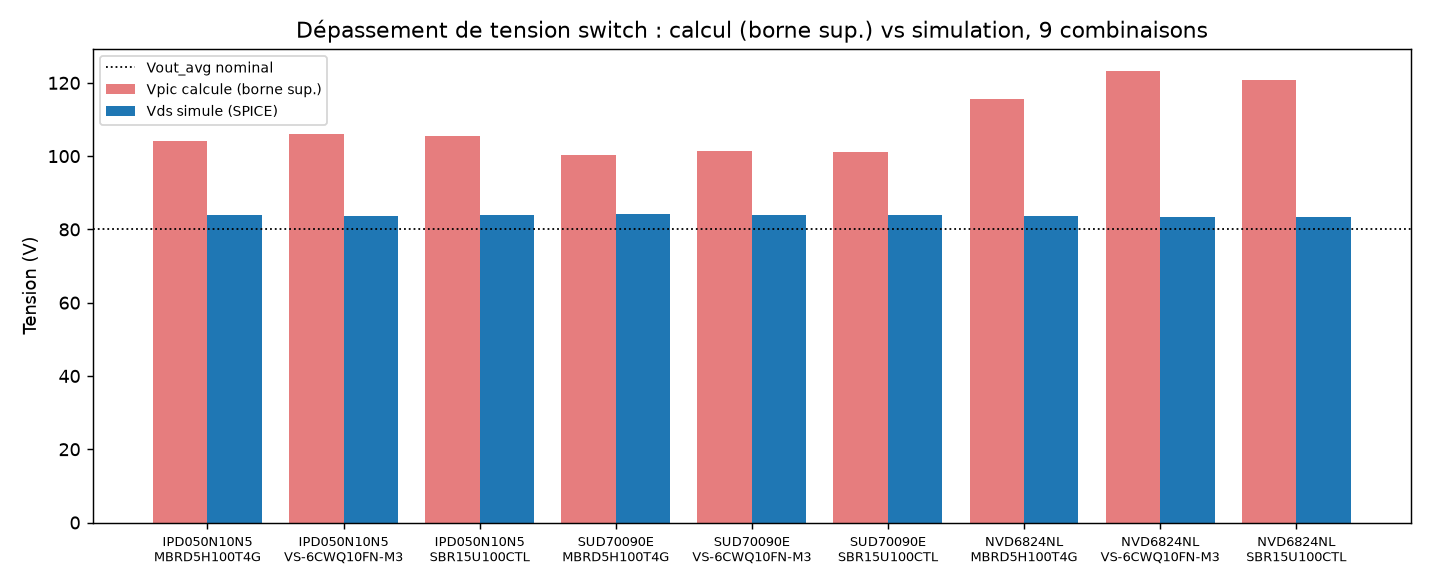
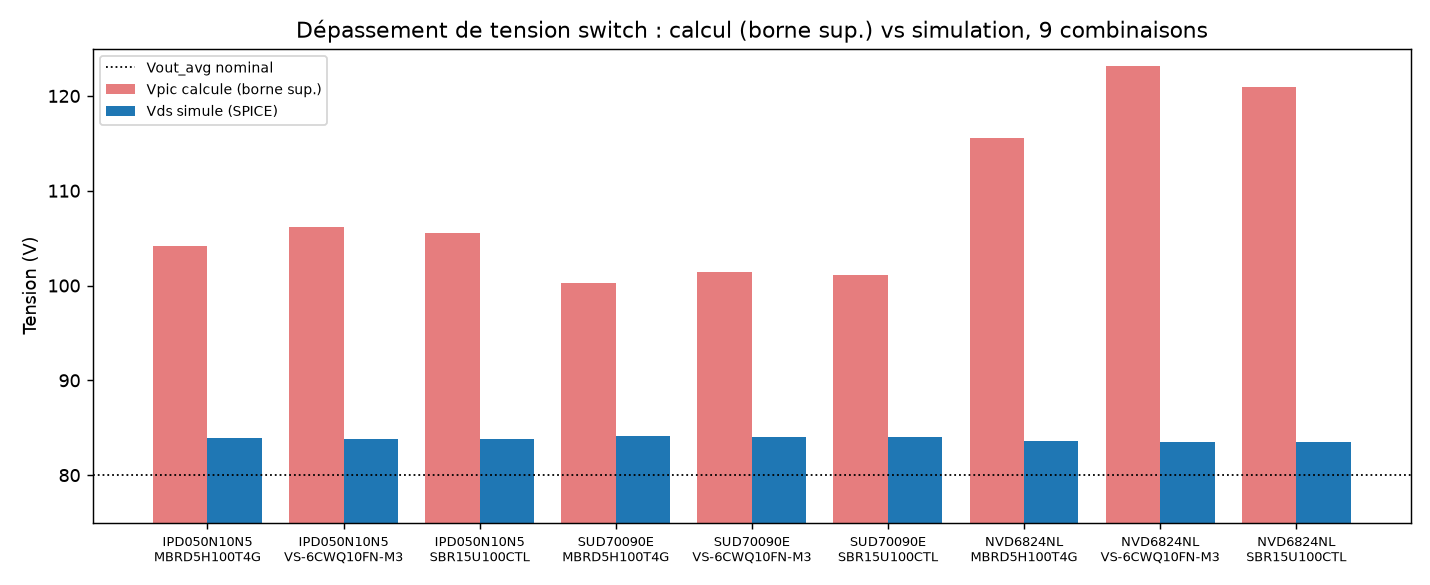
EMI : pertes switch en courbes (cond/sw/total) au lieu d'empilement, resserre l'axe de surtension a 75-125V

diff --git a/02-mosfet-diode/make_plots_emi.py b/02-mosfet-diode/make_plots_emi.py
@@ -16,26 +16,32 @@ SWITCH_COLOR = {"IPD050N10N5": "C0", "SUD70090E": "C1", "NVD6824NL": "C2"}
 
 
 def make_switch_losses_figure(out="plots/emi_switch_losses.png"):
+    """Un sous-graphe par transistor -- 3 courbes (P_cond/P_sw/P_total)
+    en fonction de fsw, pas un empilement -- pour voir directement
+    lequel des deux termes domine et comment la somme evolue."""
     points = load_nominal_points()
     fsw_list = [p["fsw_khz"] for p in points]
-    fig, axes = plt.subplots(1, 3, figsize=(12, 4), sharey=True)
+    fig, axes = plt.subplots(1, 3, figsize=(13, 4.2), sharey=True)
     for ax, sw_name in zip(axes, REAL_SWITCHES):
         p_cond = [estimate(sw_name, p)["p_cond"] * 1e3 for p in points]
         p_sw = [estimate(sw_name, p)["p_sw"] * 1e3 for p in points]
-        x = range(len(fsw_list))
-        ax.bar(x, p_cond, label="P_cond", color=SWITCH_COLOR[sw_name],
-               alpha=0.5)
-        ax.bar(x, p_sw, bottom=p_cond, label="P_sw",
-               color=SWITCH_COLOR[sw_name], alpha=1.0)
-        ax.set_xticks(list(x))
+        p_total = [c + s for c, s in zip(p_cond, p_sw)]
+        ax.plot(fsw_list, p_cond, marker="o", label="P_cond",
+                color=SWITCH_COLOR[sw_name], ls="--")
+        ax.plot(fsw_list, p_sw, marker="s", label="P_sw",
+                color=SWITCH_COLOR[sw_name], ls=":")
+        ax.plot(fsw_list, p_total, marker="^", label="P_total",
+                color=SWITCH_COLOR[sw_name], ls="-", lw=2)
+        ax.set_xticks(fsw_list)
         ax.set_xticklabels([f"{f:.0f}k" for f in fsw_list])
         ax.set_title(sw_name)
         ax.set_xlabel("fsw (Hz)")
+        ax.grid(alpha=0.3)
         if ax is axes[0]:
             ax.set_ylabel("Pertes switch (mW)")
-            ax.legend(fontsize=8)
-    fig.suptitle("Pertes switch a vitesse native -- conduction vs "
-                  "commutation (20V->80V/40W, L=47uH)")
+        ax.legend(fontsize=8)
+    fig.suptitle("Pertes switch a vitesse native -- conduction, "
+                  "commutation et somme (20V->80V/40W, L=47uH)")
     fig.tight_layout()
     fig.savefig(out, dpi=130)
     print(f"Ecrit {out}")
@@ -54,6 +60,7 @@ def make_resonance_figure(rows, out="plots/emi_resonance_overshoot.png"):
     ax.axhline(80, color="k", ls=":", lw=1, label="Vout_avg nominal")
     ax.set_xticks(list(x))
     ax.set_xticklabels(labels, fontsize=7)
+    ax.set_ylim(75, 125)
     ax.set_ylabel("Tension (V)")
     ax.set_title("Dépassement de tension switch : calcul (borne sup.) "
                   "vs simulation, 9 combinaisons")
